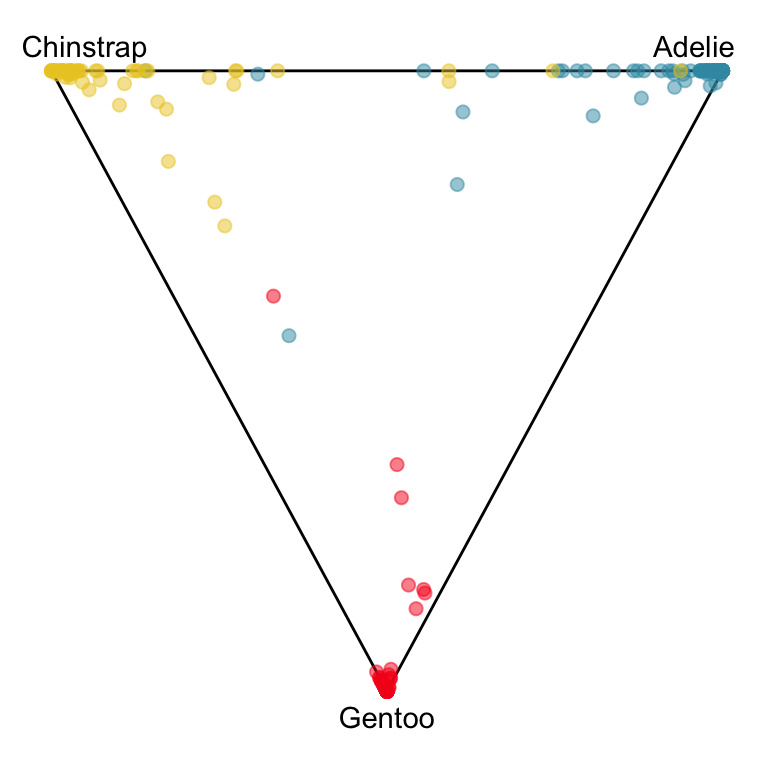
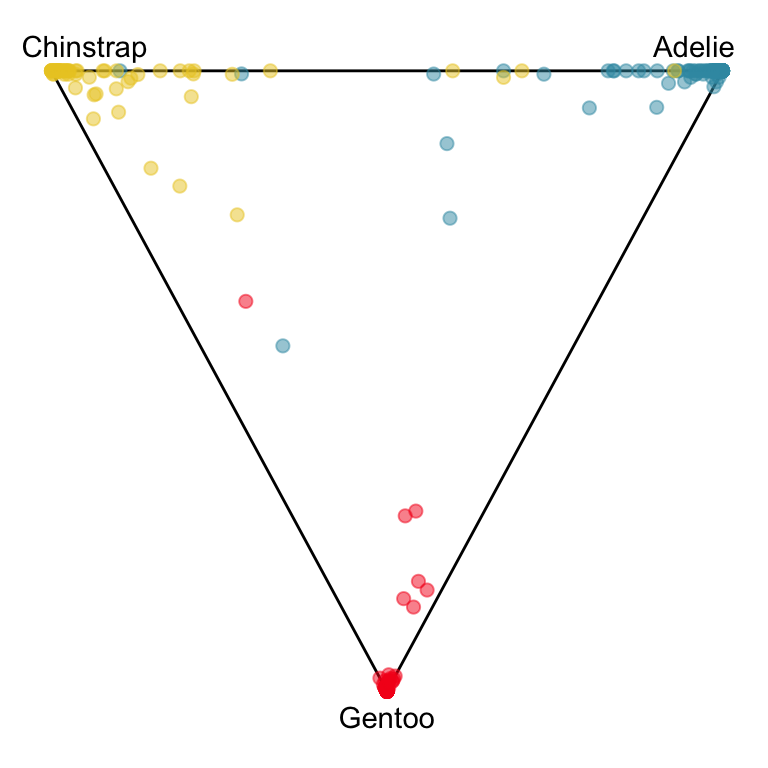
Filling in the last few slides

diff --git a/index.html b/index.html
@@ -424,14 +424,13 @@
 <p><br></p>
 <div class="cell">
 <div class="sourceCode cell-code" id="cb1"><pre class="sourceCode r code-with-copy"><code class="sourceCode r"><span id="cb1-1"><a href="#cb1-1" aria-hidden="true" tabindex="-1"></a><span class="fu">library</span>(tourr)</span>
-<span id="cb1-2"><a href="#cb1-2" aria-hidden="true" tabindex="-1"></a><span class="fu">library</span>(palmerpenguins)</span>
-<span id="cb1-3"><a href="#cb1-3" aria-hidden="true" tabindex="-1"></a></span>
-<span id="cb1-4"><a href="#cb1-4" aria-hidden="true" tabindex="-1"></a>penguins <span class="ot">&lt;-</span> <span class="fu">na.omit</span>(penguins)</span>
-<span id="cb1-5"><a href="#cb1-5" aria-hidden="true" tabindex="-1"></a><span class="fu">animate_xy</span>(penguins[,<span class="dv">3</span><span class="sc">:</span><span class="dv">6</span>],</span>
-<span id="cb1-6"><a href="#cb1-6" aria-hidden="true" tabindex="-1"></a>           <span class="at">col=</span>penguins<span class="sc">$</span>species,</span>
-<span id="cb1-7"><a href="#cb1-7" aria-hidden="true" tabindex="-1"></a>           <span class="at">axes=</span><span class="st">"bottomleft"</span>,</span>
-<span id="cb1-8"><a href="#cb1-8" aria-hidden="true" tabindex="-1"></a>           <span class="at">rescale =</span> <span class="cn">TRUE</span>,</span>
-<span id="cb1-9"><a href="#cb1-9" aria-hidden="true" tabindex="-1"></a>           <span class="at">fps=</span><span class="dv">15</span>)</span></code><button title="Copy to Clipboard" class="code-copy-button"><i class="bi"></i></button></pre></div>
+<span id="cb1-2"><a href="#cb1-2" aria-hidden="true" tabindex="-1"></a></span>
+<span id="cb1-3"><a href="#cb1-3" aria-hidden="true" tabindex="-1"></a><span class="fu">load</span>(<span class="st">"penguins_sub.rda"</span>)</span>
+<span id="cb1-4"><a href="#cb1-4" aria-hidden="true" tabindex="-1"></a><span class="fu">animate_xy</span>(penguins_sub[,<span class="dv">1</span><span class="sc">:</span><span class="dv">4</span>],</span>
+<span id="cb1-5"><a href="#cb1-5" aria-hidden="true" tabindex="-1"></a>           <span class="at">col=</span>penguins_sub<span class="sc">$</span>species,</span>
+<span id="cb1-6"><a href="#cb1-6" aria-hidden="true" tabindex="-1"></a>           <span class="at">axes=</span><span class="st">"bottomleft"</span>,</span>
+<span id="cb1-7"><a href="#cb1-7" aria-hidden="true" tabindex="-1"></a>           <span class="at">rescale =</span> <span class="cn">TRUE</span>,</span>
+<span id="cb1-8"><a href="#cb1-8" aria-hidden="true" tabindex="-1"></a>           <span class="at">fps=</span><span class="dv">15</span>)</span></code><button title="Copy to Clipboard" class="code-copy-button"><i class="bi"></i></button></pre></div>
 </div>
 <div class="cell">
 
@@ -477,17 +476,26 @@
 </div>
 </div>
 </section>
+<section id="visualizing-classification-models" class="slide level2">
+<h2>Visualizing classification models</h2>
+<p>With these two examples we will explore the potential of tour visualizations to better understand classification models:</p>
+<ul>
+<li>visualize model predictions in the data space to understand classification boundaries</li>
+<li>visualize the votes matrix to understand confusion between classes in the model</li>
+<li>visualize model specific outputs, for example the separating hyperplane from SVM</li>
+</ul>
+</section>
 <section id="visualizing-predictions" class="slide level2">
 <h2>Visualizing predictions</h2>
 <div class="cell">
 <div class="sourceCode cell-code" id="cb3"><pre class="sourceCode r code-with-copy"><code class="sourceCode r"><span id="cb3-1"><a href="#cb3-1" aria-hidden="true" tabindex="-1"></a><span class="co"># fitting the two models</span></span>
-<span id="cb3-2"><a href="#cb3-2" aria-hidden="true" tabindex="-1"></a>p_lda <span class="ot">&lt;-</span> MASS<span class="sc">::</span><span class="fu">lda</span>(species<span class="sc">~</span>., <span class="at">data=</span>penguins[,<span class="fu">c</span>(<span class="dv">1</span>,<span class="dv">3</span><span class="sc">:</span><span class="dv">6</span>)],</span>
+<span id="cb3-2"><a href="#cb3-2" aria-hidden="true" tabindex="-1"></a>p_lda <span class="ot">&lt;-</span> MASS<span class="sc">::</span><span class="fu">lda</span>(species<span class="sc">~</span>., <span class="at">data=</span>penguins_sub[,<span class="dv">1</span><span class="sc">:</span><span class="dv">5</span>],</span>
 <span id="cb3-3"><a href="#cb3-3" aria-hidden="true" tabindex="-1"></a>                   <span class="at">prior=</span><span class="fu">c</span>(<span class="dv">1</span><span class="sc">/</span><span class="dv">3</span>, <span class="dv">1</span><span class="sc">/</span><span class="dv">3</span>, <span class="dv">1</span><span class="sc">/</span><span class="dv">3</span>))</span>
-<span id="cb3-4"><a href="#cb3-4" aria-hidden="true" tabindex="-1"></a>p_tree <span class="ot">&lt;-</span> rpart<span class="sc">::</span><span class="fu">rpart</span>(species<span class="sc">~</span>., <span class="at">data=</span>penguins[,<span class="fu">c</span>(<span class="dv">1</span>,<span class="dv">3</span><span class="sc">:</span><span class="dv">6</span>)])</span>
+<span id="cb3-4"><a href="#cb3-4" aria-hidden="true" tabindex="-1"></a>p_tree <span class="ot">&lt;-</span> rpart<span class="sc">::</span><span class="fu">rpart</span>(species<span class="sc">~</span>., <span class="at">data=</span>penguins_sub[,<span class="dv">1</span><span class="sc">:</span><span class="dv">5</span>])</span>
 <span id="cb3-5"><a href="#cb3-5" aria-hidden="true" tabindex="-1"></a></span>
 <span id="cb3-6"><a href="#cb3-6" aria-hidden="true" tabindex="-1"></a><span class="co"># using the classifly package to calculate predictions</span></span>
-<span id="cb3-7"><a href="#cb3-7" aria-hidden="true" tabindex="-1"></a>p_lda_boundaries <span class="ot">&lt;-</span> classifly<span class="sc">::</span><span class="fu">explore</span>(p_lda, penguins)</span>
-<span id="cb3-8"><a href="#cb3-8" aria-hidden="true" tabindex="-1"></a>p_tree_boundaries <span class="ot">&lt;-</span> classifly<span class="sc">::</span><span class="fu">explore</span>(p_tree, penguins)</span>
+<span id="cb3-7"><a href="#cb3-7" aria-hidden="true" tabindex="-1"></a>p_lda_boundaries <span class="ot">&lt;-</span> classifly<span class="sc">::</span><span class="fu">explore</span>(p_lda, penguins_sub)</span>
+<span id="cb3-8"><a href="#cb3-8" aria-hidden="true" tabindex="-1"></a>p_tree_boundaries <span class="ot">&lt;-</span> classifly<span class="sc">::</span><span class="fu">explore</span>(p_tree, penguins_sub)</span>
 <span id="cb3-9"><a href="#cb3-9" aria-hidden="true" tabindex="-1"></a></span>
 <span id="cb3-10"><a href="#cb3-10" aria-hidden="true" tabindex="-1"></a><span class="co"># selecting the subset of interest</span></span>
 <span id="cb3-11"><a href="#cb3-11" aria-hidden="true" tabindex="-1"></a>p_lda_boundaries <span class="ot">&lt;-</span> <span class="fu">as.data.frame</span>(</span>
@@ -545,9 +553,9 @@
 <p>With support vector machines we can investigate the <strong>separating hyperplane</strong>. Here we will use the <strong>radial tour</strong> that is rotating a single variable in and out of the projection to understand its contribution to the separation.</p>
 <p>As a simple binary example we fit an SVM to predict if a Chinstrap penguin is male or female.</p>
 <div class="cell">
-<div class="sourceCode cell-code" id="cb4"><pre class="sourceCode r code-with-copy"><code class="sourceCode r"><span id="cb4-1"><a href="#cb4-1" aria-hidden="true" tabindex="-1"></a>chinstrap <span class="ot">&lt;-</span> penguins <span class="sc">%&gt;%</span></span>
+<div class="sourceCode cell-code" id="cb4"><pre class="sourceCode r code-with-copy"><code class="sourceCode r"><span id="cb4-1"><a href="#cb4-1" aria-hidden="true" tabindex="-1"></a>chinstrap <span class="ot">&lt;-</span> penguins_sub <span class="sc">%&gt;%</span></span>
 <span id="cb4-2"><a href="#cb4-2" aria-hidden="true" tabindex="-1"></a>  <span class="fu">filter</span>(species <span class="sc">==</span> <span class="st">"Chinstrap"</span>) <span class="sc">%&gt;%</span></span>
-<span id="cb4-3"><a href="#cb4-3" aria-hidden="true" tabindex="-1"></a>  <span class="fu">select</span>(<span class="sc">-</span>species, <span class="sc">-</span>island, <span class="sc">-</span>year) <span class="sc">%&gt;%</span></span>
+<span id="cb4-3"><a href="#cb4-3" aria-hidden="true" tabindex="-1"></a>  <span class="fu">select</span>(<span class="sc">-</span>species) <span class="sc">%&gt;%</span></span>
 <span id="cb4-4"><a href="#cb4-4" aria-hidden="true" tabindex="-1"></a>  <span class="fu">mutate_if</span>(is.numeric, mulgar<span class="sc">:::</span>scale2)</span>
 <span id="cb4-5"><a href="#cb4-5" aria-hidden="true" tabindex="-1"></a>chinstrap_svm <span class="ot">&lt;-</span> e1071<span class="sc">::</span><span class="fu">svm</span>(sex<span class="sc">~</span>., <span class="at">data=</span>chinstrap, <span class="at">scale=</span><span class="cn">FALSE</span>,</span>
 <span id="cb4-6"><a href="#cb4-6" aria-hidden="true" tabindex="-1"></a>                     <span class="at">kernel=</span><span class="st">"linear"</span>, <span class="at">probability=</span><span class="cn">TRUE</span>)</span>
@@ -557,8 +565,8 @@
 
 </div>
 </section>
-<section id="svm-1" class="slide level2">
-<h2>SVM</h2>
+<section id="svm---penguins" class="slide level2">
+<h2>SVM - penguins</h2>
 <div class="columns">
 <div class="column" style="width:50%;">
 <p>Bill length</p>
@@ -569,25 +577,42 @@
 </div>
 </div>
 </section>
-<section id="svm-2" class="slide level2">
-<h2>SVM</h2>
-<p>Sketches data to compare linear and radial SVM - banana vs boomerang</p>
+<section id="svm---banana-vs-boomerang-sketches" class="slide level2">
+<h2>SVM - banana vs boomerang sketches</h2>
+<div class="cell">
+
+</div>
+<div class="columns">
+<div class="column" style="width:50%;">
+<p>Linear SVM</p>
+<p><img data-src="gif/s_svm_l.gif"></p>
+</div><div class="column" style="width:50%;">
+<p>Radial SVM</p>
+<p><img data-src="gif/s_svm_r.gif"></p>
+</div>
+</div>
 </section>
 <section id="references" class="slide level2">
 <h2>References</h2>
 <ul>
-<li>book</li>
-<li>tourr</li>
-<li>slice tour</li>
-<li>classifly</li>
-<li>vote matrix paper</li>
-<li>mmtour (radial tour)</li>
+<li><a href="https://dicook.github.io/mulgar_book/">Interactively exploring high-dimensional data and models in R</a>, D. Cook and U. Laa</li>
+<li><a href="https://doi.org/10.1002/sam.11271">Visualizing statistical models: Removing the blindfold</a>, H. Wickham, D. Cook, H. Hofmann</li>
+<li><a href="https://doi.org/10.18637/jss.v040.i02">tourr: An R Package for Exploring Multivariate Data with Projections</a>, H. Wickham, D. Cook, H. Hofmann, A. Buja</li>
+<li><a href="https://doi.org/10.1080/10618600.2020.1777140">A Slice Tour for Finding Hollowness in High-Dimensional Data</a>, U. Laa, D. Cook, G. Valencia</li>
+</ul>
+</section>
+<section id="references-1" class="slide level2">
+<h2>References</h2>
+<ul>
+<li><a href="http://had.co.nz/classifly">Explore Classification Models in High Dimensions</a>, H. Wickham</li>
+<li><a href="https://doi.org/10.1007/s00180-023-01323-x">Interactive Graphics for Visually Diagnosing Forest Classifiers in R</a>, N. da Silva, D. Cook, E.K. Lee</li>
+<li><a href="https://doi.org/10.1080/10618600.2023.2206459">New and Simplified Manual Controls for Projection and Slice Tours, With Application to Exploring Classification Boundaries in High Dimensions</a>, U. Laa, A. Aumann, D. Cook, G. Valencia</li>
 </ul>
 </section>
 <section id="thank-you" class="title-slide slide level1 center">
 <h1>Thank you!</h1>
 <p><br></p>
-<p>This is work in progress, we are happy about your feedback!</p>
+<p>This is work in progress, we are happy about your feedback and suggestions!</p>
 <p><br></p>
 
 <img src="BOKU-logo.svg" class="slide-logo r-stretch"><div class="footer footer-default">
